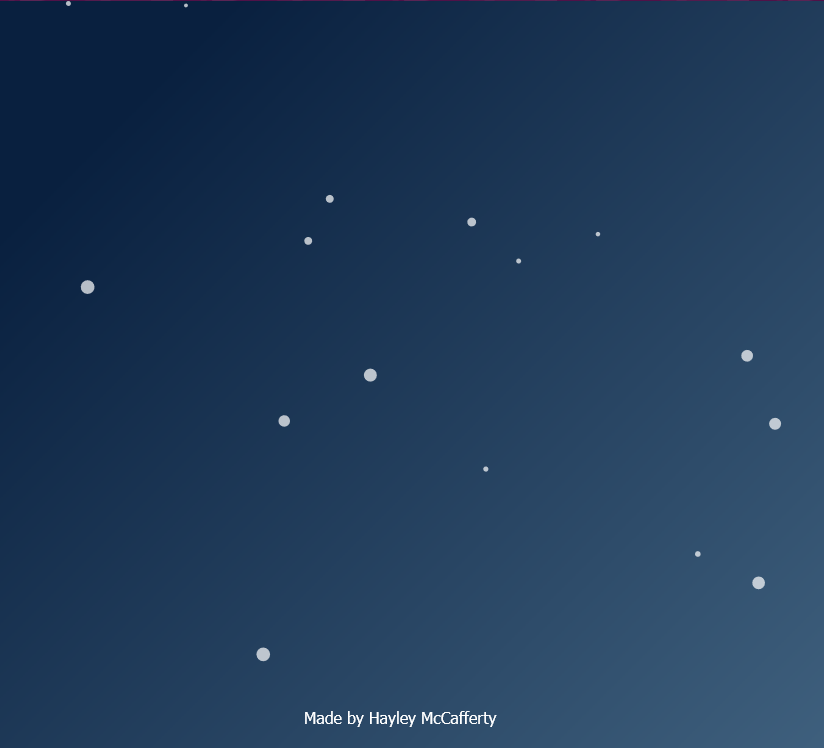
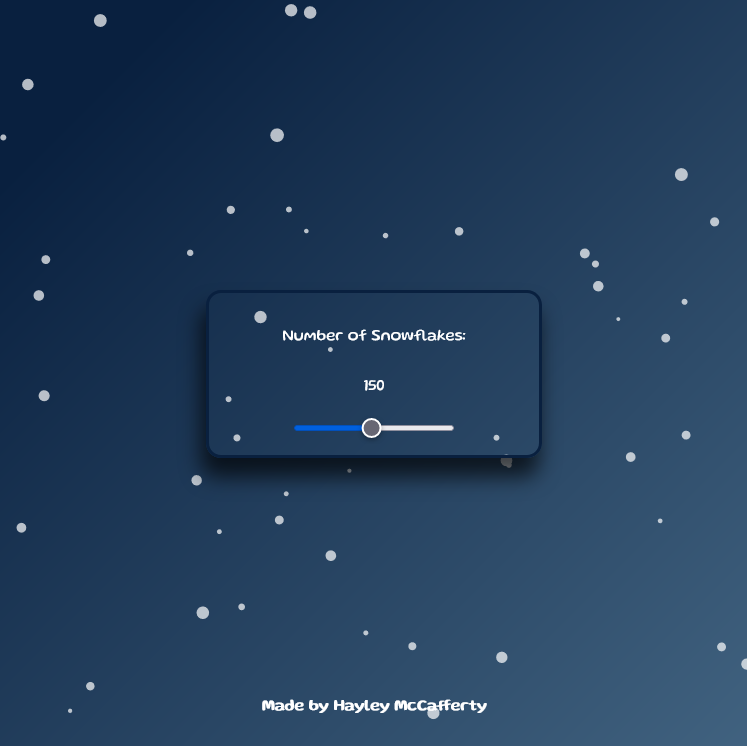
Added slider for how many snowflakes to fall

diff --git a/src/art/haylzrandom/script.js b/src/art/haylzrandom/script.js
@@ -1,6 +1,19 @@
 const c = document.getElementById('canvas');
 const ctx = c.getContext('2d');
 
+let slider = document.getElementById('snowflakes');
+let snowflakeCount = document.getElementById('numOfFlakes');
+
+snowflakeCount.innerText = slider.value;
+let maxFlakes = slider.value; // max number of snowflakes on screen
+let flakes = [];
+
+slider.addEventListener('change', () => {
+	snowflakeCount.innerText = slider.value;
+	maxFlakes = slider.value;
+	flakes = [];
+});
+
 // Canvas Dimensions
 let width = window.innerWidth;
 let height = window.innerHeight;
@@ -8,20 +21,32 @@ let height = window.innerHeight;
 c.width = width;
 c.height = height;
 
-let maxFlakes = 55; // max number of snowflakes on screen
-let flakes = [];
+const flakePos = (maxFlakes) => {
+	for (let i = 0; i < maxFlakes; i++) {
+		flakes.push({
+			x: Math.random() * width, // x-coord
+			y: Math.random() * height, // y-coord
+			r: Math.random() * 5 + 2, // radius
+			d: Math.random() * maxFlakes, // density
+		});
+	}
+};
 
-for (let i = 0; i < maxFlakes; i++) {
+/* let maxFlakes = 55; // max number of snowflakes on screen
+let flakes = []; */
+
+/* for (let i = 0; i < maxFlakes; i++) {
 	flakes.push({
 		x: Math.random() * width, // x-coord
 		y: Math.random() * height, // y-coord
 		r: Math.random() * 5 + 2, // radius
 		d: Math.random() * maxFlakes, // density
 	});
-}
+} */
 
 // Function that will draw snowflakes on canvas
 const drawFlakes = () => {
+	flakePos(maxFlakes);
 	ctx.clearRect(0, 0, width, height);
 
 	ctx.fillStyle = 'rgba(255, 255, 255, 0.7)';

diff --git a/src/art/haylzrandom/style.css b/src/art/haylzrandom/style.css
@@ -1,9 +1,12 @@
+@import url('https://fonts.googleapis.com/css2?family=Gluten&display=swap');
+
 body {
 	margin: 0;
 	overflow: hidden;
 	background-color: #537895;
 	background-image: linear-gradient(315deg, #537895 0%, #09203f 74%);
 	color: #fff;
+	font-family: 'Gluten', cursive;
 }
 
 #canvas {
@@ -12,12 +15,12 @@ body {
 
 h4 {
 	position: absolute;
-	width: 100%;
-	/* text-align: center; */
+	width: 300px;
+	text-align: center;
 	bottom: 0;
-	left: 45%;
+	left: 50%;
 	right: 50%;
-	font-weight: 400;
+	transform: translate(-50%, -50%);
 }
 
 a {
@@ -29,17 +32,31 @@ a:hover {
 	color: #09203f;
 }
 
-/*
 .slide-container {
-	width: 100%;
+	width: 300px;
 	display: flex;
 	flex-direction: column;
 	align-items: center;
 	justify-content: center;
-	margin: 30px;
 	padding: 15px;
 	position: absolute;
 	z-index: 10;
+	border: 3px solid #09203f;
+	border-radius: 15px;
+	left: 50%;
+	top: 50%;
+	transform: translate(-50%, -50%);
+	box-shadow: -4px 18px 20px 1px rgba(0, 0, 0, 0.68);
+}
+
+#label-snowflakes {
+	padding: 10px;
+	margin: 10px;
+}
+
+#numOfFlakes {
+	padding: 10px;
+	margin-bottom: 10px;
 }
 
 .slider {
@@ -72,4 +89,3 @@ a:hover {
 	background: #04aa6d;
 	cursor: pointer;
 }
- */

diff --git a/src/art/haylzrandom/index.html b/src/art/haylzrandom/index.html
@@ -8,6 +8,19 @@
 		<link rel="stylesheet" href="./style.css" />
 	</head>
 	<body>
+		<div class="slide-container">
+			<label for="snowflakes" id="label-snowflakes"
+				>Number of Snowflakes: </label
+			><span id="numOfFlakes">0</span>
+			<input
+				type="range"
+				min="10"
+				max="300"
+				step="10"
+				id="snowflakes"
+				name="snowflakes"
+			/>
+		</div>
 		<canvas id="canvas"> </canvas>
 		<h4>
 			Made by
